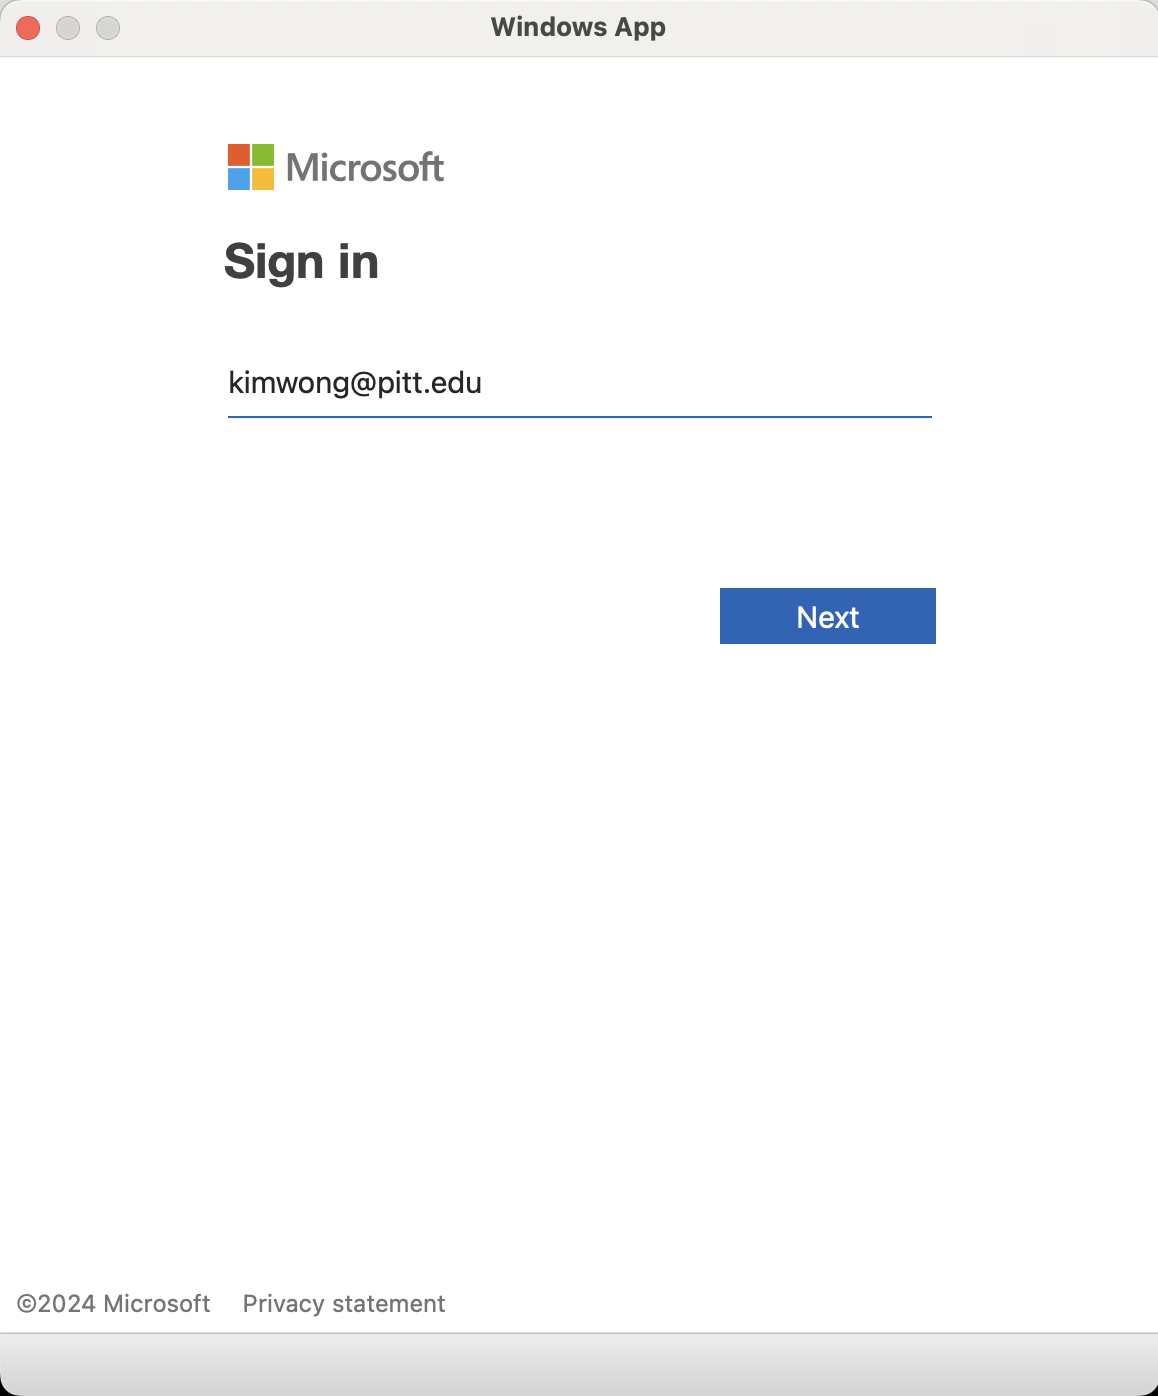
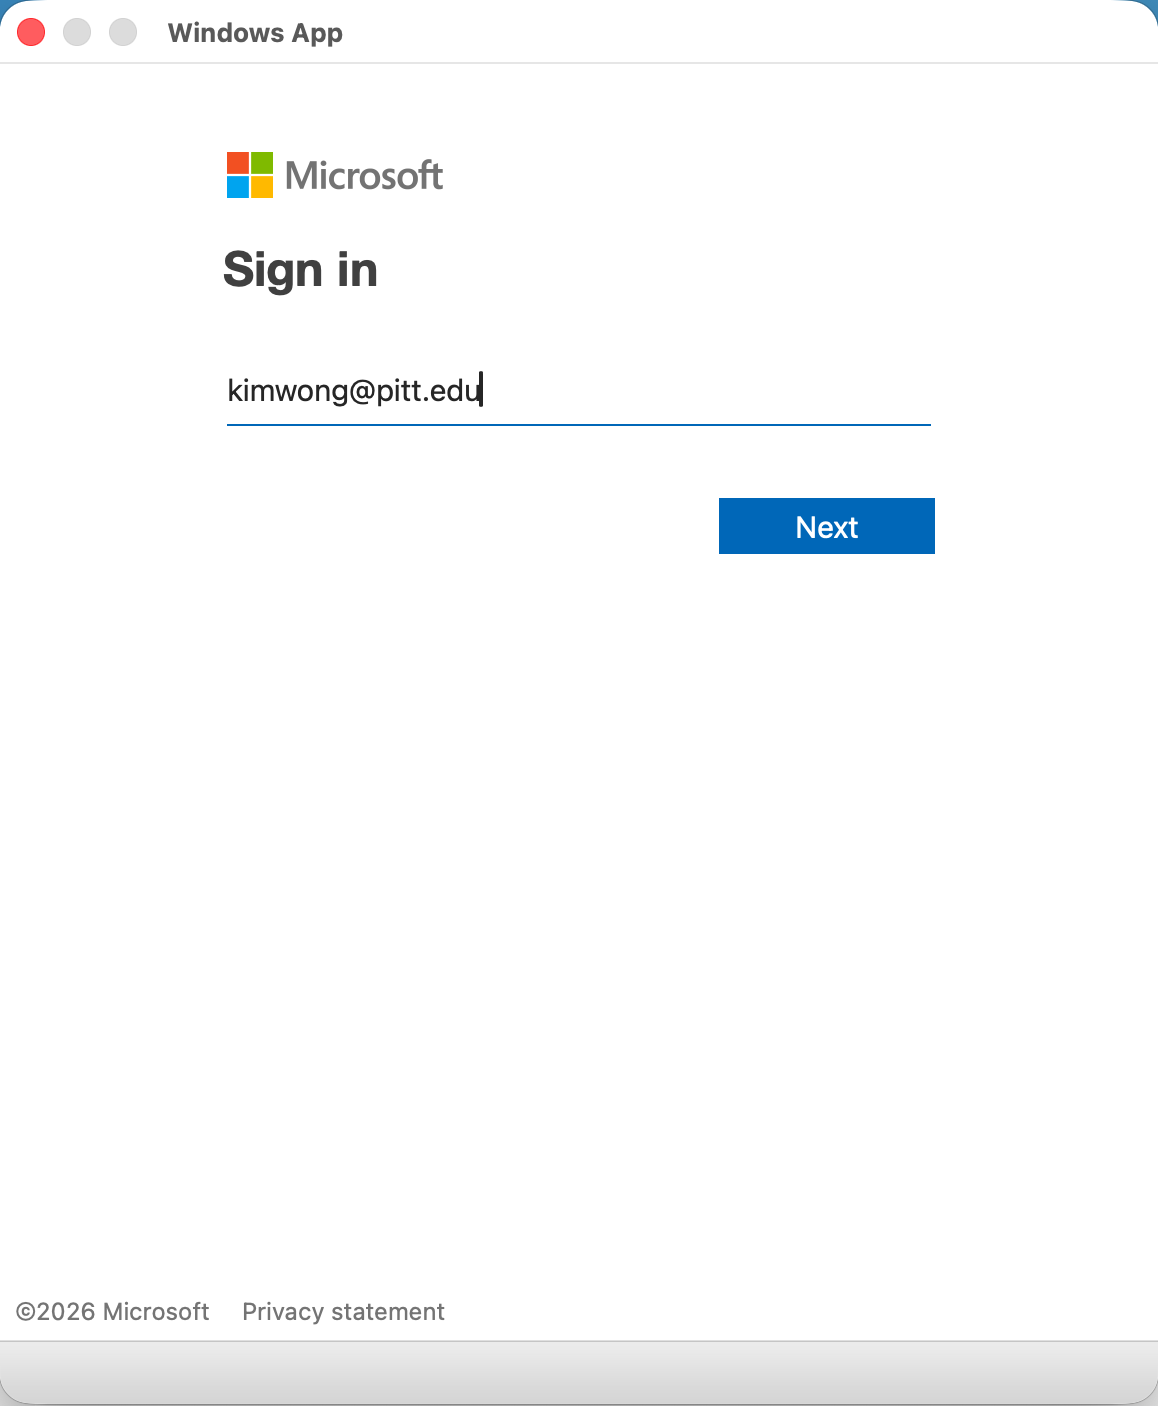
Updated SRE screenshots and Remote Deskto to refer to Windows App.

diff --git a/docs/getting-started/access_sre.md b/docs/getting-started/access_sre.md
@@ -40,42 +40,37 @@ cluster, a data storage system, access portals, networking equipment, and softwa
 |-----------|------------|----------|-----------|-------------------|------------|---------------|------------|-----------|------------|----------|---------------|
 | gpu       | [L40S (48GB)](https://www.nvidia.com/en-us/data-center/l40s/) |    2   | 4         | [Intel Xeon Platinum 8462Y+](https://www.intel.com/content/www/us/en/products/sku/232383/intel-xeon-platinum-8462y-processor-60m-cache-2-80-ghz/specifications.html)          | 64          | 16            | 512 GB     | 8 GB      | 7 TB NVMe  | 10GbE             | gpu-n\[0-1] |
 
-##**1. ^^Install and Configure Remote Desktop client^^**
+##**1. ^^Install and configure the Windows App client^^**
 
-You will need to install the [Remote Desktop client](https://learn.microsoft.com/en-us/windows-server/remote/remote-desktop-services/clients/remote-desktop-clients) 
-for your OS. The previous link provides instructions for various types of devices. Below, we will only highlight MacOS and Windows. 
+You will need to install the [Windows App client](https://learn.microsoft.com/en-us/windows-app/landing) 
+for your OS. Below, we will only highlight the client for MacOS and Windows. 
 
-!!! example "Installing and Configuring the Remote Desktop client"
+!!! example "Installing and Configuring the Windows App client"
     === "MacOS"
         In MacOS, the Windows App client software is distributed through the Mac App Store. Open the the Windows App after download.
 
         ![MacOS-AVD-01](../_assets/img/avd/MacOS-AVD-01.png)
 
-        Next, add Pitt's Remote Desktop Device by selecting *Add Work or School Account* from the + widget, located towards the upper right-hand 
-        corner of the window.
+        !!! tip "Direct Download outside of App Store"
+            If installation through the App Store is not possible, you can download the [**Installer as `.pkg`**](https://learn.microsoft.com/en-us/windows-app/whats-new?tabs=macos).
+
+        Next, add Pitt's Remote Desktop Device by selecting *Add Work or School Account* from the + widget, located in the middle of the toolbar.
 
         ![MacOS-AVD-02](../_assets/img/avd/MacOS-AVD-02.png)
 
         This will take you to the *Microsoft Sign in* panel for authenticating using Pitt Single Sign-On.
 
-        | Authenticate via Pitt Passport| |
+        | Authenticate via Pitt Passport | |
         | ----------- | ------------------------------------ |
         | **1**![MacOS-AVD-03](../_assets/img/avd/MacOS-AVD-03.png) | **2**![MacOS-AVD-04](../_assets/img/avd/MacOS-AVD-04.png) |
         | **3**![MacOS-AVD-05](../_assets/img/avd/MacOS-AVD-05.png) | **4**![MacOS-AVD-06](../_assets/img/avd/MacOS-AVD-06.png) |
 
     === "Windows"
 
-        In Windows, the Microsoft Remote Desktop software is distributed through the Microsoft App Store. Open Remote Desktop installer after download.
+        The Windows App comes preinstalled with Windows 11. Click on the Start Button on the task bar and search for it by name.
         ![Win-AVD-01](../_assets/img/avd/Win-AVD-01.png)
 
-        Next, add Pitt's Workspaces by selecting *Workspaces* from the **+ Add** widget, located towards the upper right-hand
-        corner of the window.
-
-        ![Win-AVD-02](../_assets/img/avd/Win-AVD-02.png)
-
-        This will take you to the *Subscribe to a Workspace* window where you will be asked to sign in using your Pitt credentials..
-
-        ![Win-AVD-03](../_assets/img/avd/Win-AVD-03.png)
+        Next, sign into your Microsoft account using your Pitt credentials..
 
         | Authenticate via Pitt Passport| |
         | ----------- | ------------------------------------ |
@@ -94,36 +89,28 @@ for your OS. The previous link provides instructions for various types of device
         [**help ticket**](https://services.pitt.edu/TDClient/33/Portal/Requests/TicketRequests/NewForm?ID=yXkHi62rHa8_&RequestorType=Service),
         stating that you need authorization to use AVD to access the CRCD Secure Research Environment.
 
-        ![MacOS-AVD-07-HIPAA](../_assets/img/avd/MacOS-AVD-07-SRE.png)
+        | Authenticate using Pitt credentials | |
+        | ----------- | ------------------------------------ |
+        | **1.** The remote Device you want is called CRCD-SRE. ![MacOS-AVD-07-HIPAA](../_assets/img/avd/MacOS-AVD-07-SRE.png) | **2.** Double clicking on that selection will prompt for your Pitt credentials. ![MacOS-AVD-08-HIPAA](../_assets/img/avd/MacOS-AVD-08-SRE.png) |
 
-        Double clicking on that selection will prompt for your Pitt credentials.
-
-        ![MacOS-AVD-08-HIPAA](../_assets/img/avd/MacOS-AVD-08-SRE.png)
-
-        You will see the Remote Windows Desktop after successful login. From this remote portal, you can access the Secure Research Environment.
+        You will see the Remote Windows Desktop below after successful login. From this remote portal, you can access the Secure Research Environment.
 
         ![MacOS-AVD-09-HIPAA](../_assets/img/avd/MacOS-AVD-09-SRE.png)
 
     === "Windows"
 
-        After successful authentication, you will be presented with list of authorized Workspaces that you can connect to. Your
-        Workspaces may be different from what is shown below, depending on your role. Authorized users of the HIPAA environment will
-        see a *Workspace* called **CRCD-SRE**.
-        If you do not see this *Workspace* but should have access, please submit a
+        After successful authentication, you will be presented with list of authorized Devices that you can connect to.
+        Authorized users of the CRCD SRE will see a *Device* called **CRCD-SRE**.
+        If you do not see this *Device* but should have access, please submit a
         [**help ticket**](https://services.pitt.edu/TDClient/33/Portal/Requests/TicketRequests/NewForm?ID=yXkHi62rHa8_&RequestorType=Service),
         stating that you need authorization to use AVD to access the CRCD Secure Research Environment.
 
-        ![Win-AVD-09-HIPAA](../_assets/img/avd/Win-AVD-09-SRE.png)
+        ![Win-AVD-09-HIPAA](../_assets/img/avd/Win-AVD-08.png)
 
-        Double clicking on that selection will prompt for your Pitt credentials.
+        Clicking on that selection will prompt for your Pitt credentials to log you into the SRE AVD, from which 
+        you can access the SRE.
 
-        | Authenticate via Pitt Passport| |
-        | ----------- | ------------------------------------ |
-        | **1**![Win-AVD-10-HIPAA](../_assets/img/avd/Win-AVD-10-HIPAA.png) | **2**![Win-AVD-11-HIPAA](../_assets/img/avd/Win-AVD-11-HIPAA.png) |
-
-        You will see the Remote Windows Desktop after successful login. From this remote portal, you can access the HIPAA environment.
-
-        ![Win-AVD-12-HIPAA](../_assets/img/avd/MacOS-AVD-09-SRE.png)
+        ![Win-AVD-09-SRE](../_assets/img/avd/Win-AVD-09-SRE.png)
 
 ##**3. ^^Various Methods Connecting to CRCD SRE^^**
 
@@ -137,20 +124,14 @@ for your OS. The previous link provides instructions for various types of device
         * **PuTTY**
         * **Open OnDemand portal via a web browser**
 
-        ![MacOS-AVD-All-Tools](../_assets/img/avd/MacOS-AVD-All-Tools-SRE.png)
+        ![MacOS-AVD-All-Tools](../_assets/img/avd/Win-AVD-All-Tools-SRE.png)
 
-        <br>
-        <br>
-        <br>
-        <br>
-        <br>
-        <br>
-        <br>
 
     === "PuTTY"
         Search for and launch the PuTTY app from the Windows Start Menu.
 
         ![MacOS-AVD-PuTTY-01](../_assets/img/avd/MacOS-AVD-PuTTY-01-SRE.png)
+
 
         Fill in the PuTTY Configuration using the following values:
 
@@ -158,33 +139,22 @@ for your OS. The previous link provides instructions for various types of device
         * **Port:** 22
         * **Connection type:** SSH
 
-        You might also want to Save the profile under a name for quick loading in the future.
-
-        ![MacOS-AVD-PuTTY-02](../_assets/img/avd/MacOS-AVD-PuTTY-02-SRE.png)
-
-        When you first connect, you may see the following PuTTY Security Alert message below. Select Accept.
-
-        ![MacOS-AVD-PuTTY-03](../_assets/img/avd/MacOS-AVD-PuTTY-03-SRE.png)
-
-        The login credentials are your  Pitt username (all lowercase) and password.
-
-        ![MacOS-AVD-PuTTY-04](../_assets/img/avd/MacOS-AVD-PuTTY-04-HIPAA.png)
-
-        A successful authentication will present you with a terminal to the CRCD SRE login node.
-
-        ![MacOS-AVD-PuTTY-05](../_assets/img/avd/MacOS-AVD-PuTTY-05-SRE.png)
+        | Login through a terminal     |                              |
+        | ---------------------------- | ---------------------------- |
+        | **1.** You might also want to Save the profile under a name for quick loading in the future. ![Win-AVD-PuTTY-02](../_assets/img/avd/Win-AVD-PuTTY-02-SRE.png) | **2.** When you first connect, you may see the following PuTTY Security Alert message below. Select Accept. ![Win-AVD-PuTTY-03](../_assets/img/avd/Win-AVD-PuTTY-03-SRE.png) |
+        | **3.** The credentials are your Pitt username (all lowercase) and password. ![Win-AVD-PuTTY-04](../_assets/img/avd/Win-AVD-PuTTY-04-SRE.png) | **4.** A successful authentication will present you with a terminal to the CRCD SRE login node. ![Win-AVD-PuTTY-05](../_assets/img/avd/Win-AVD-PuTTY-05-SRE.png) |
 
     === "CRCD Webportals"
 
         From within the AVD, all CRCD webportals are accessible, including
 
         * **Open OnDemand:** [https://ondemand.res.crc.pitt.edu](https://ondemand.res.crc.pitt.edu)
+
+        | Use Pitt credentials to authenticate; all lowercase username | |
+        | ----------- | ------------------------------------ |
+        | **1** ![MacOS-AVD-Webportals-01](../_assets/img/avd/Win-AVD-Webportals-01-SRE.png) | **2** ![MacOS-AVD-Webportals-02](../_assets/img/avd/Win-AVD-Webportals-02-SRE.png) |
   
-        ![MacOS-AVD-Webportals-01](../_assets/img/avd/MacOS-AVD-Webportals-01-SRE.png)
-
-        ![MacOS-AVD-Webportals-02](../_assets/img/avd/MacOS-AVD-Webportals-02-SRE.png)
-
-        ![MacOS-AVD-Webportals-03](../_assets/img/avd/MacOS-AVD-Webportals-03-SRE.png)
+        **3** ![MacOS-AVD-Webportals-03](../_assets/img/avd/Win-AVD-Webportals-03-SRE.png)
 
 ##**4. ^^Recommendations on setting up your software environment^^**
 
